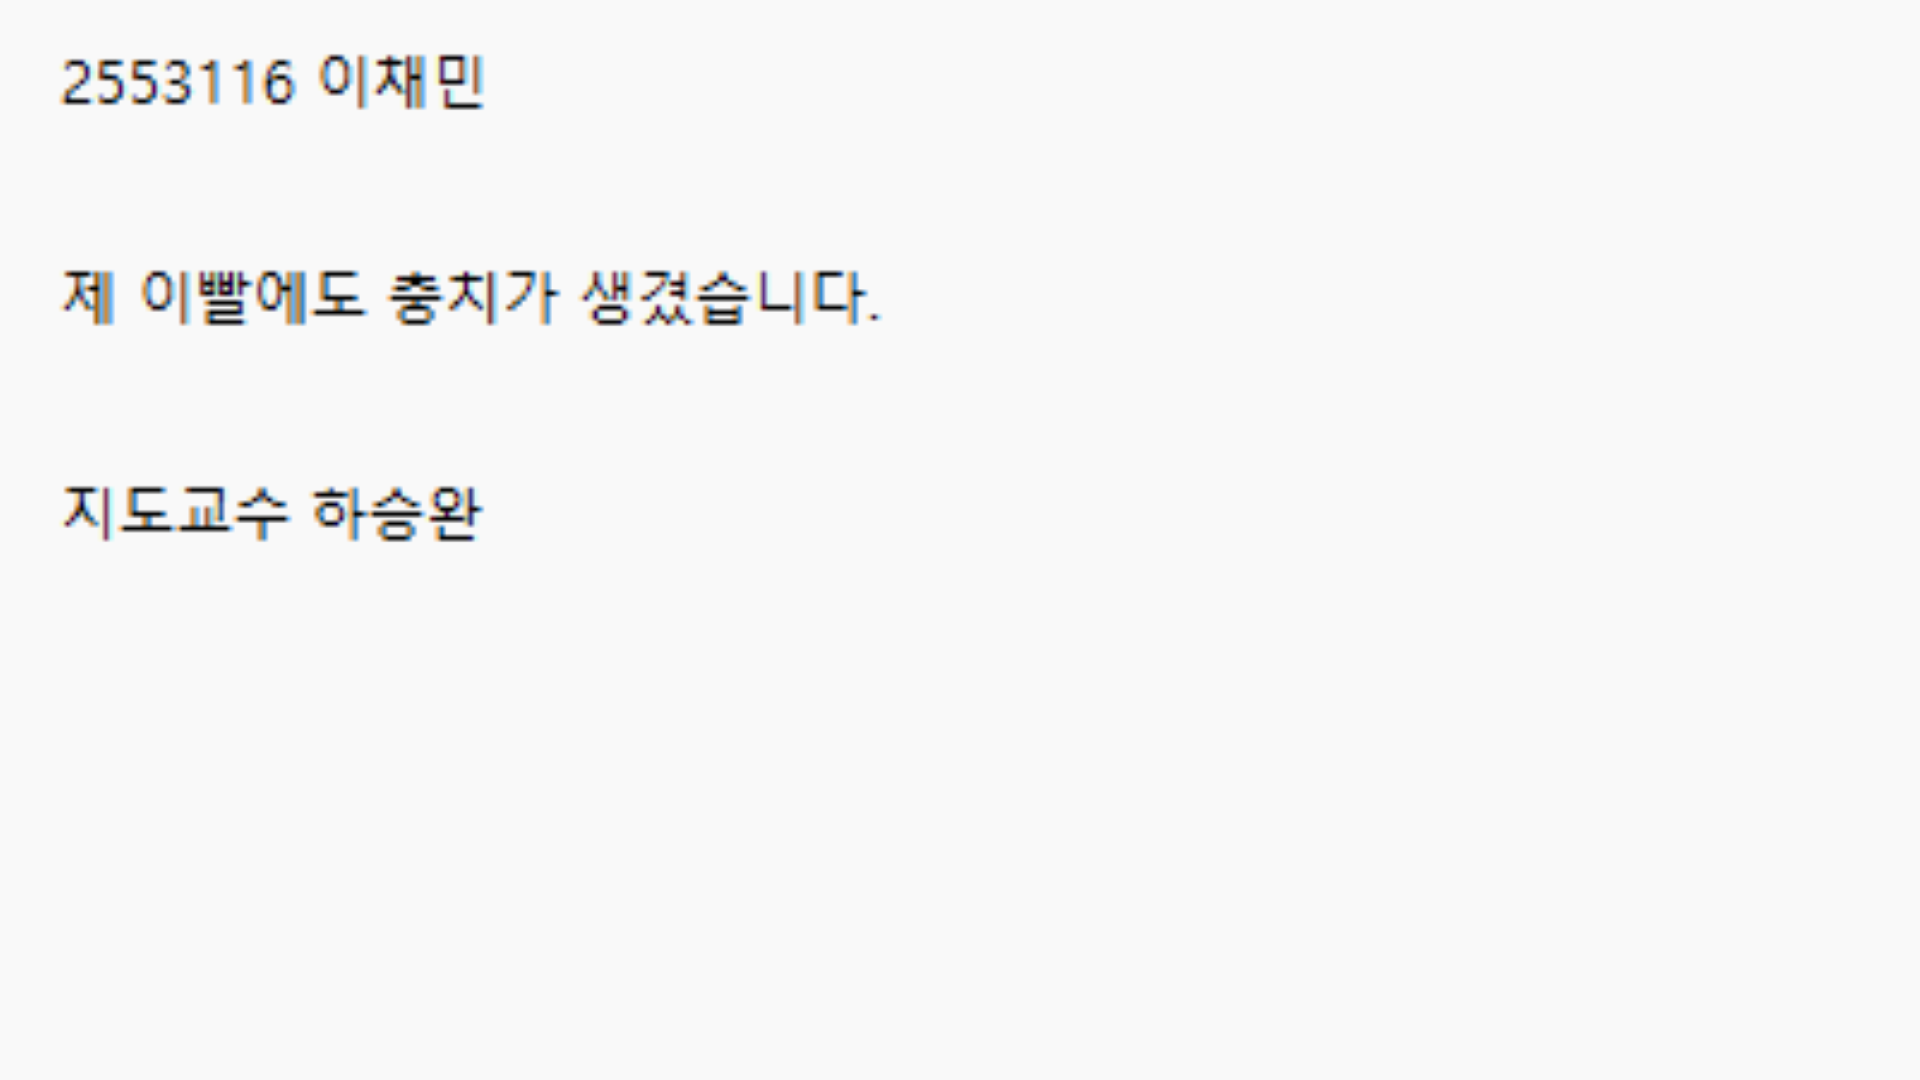
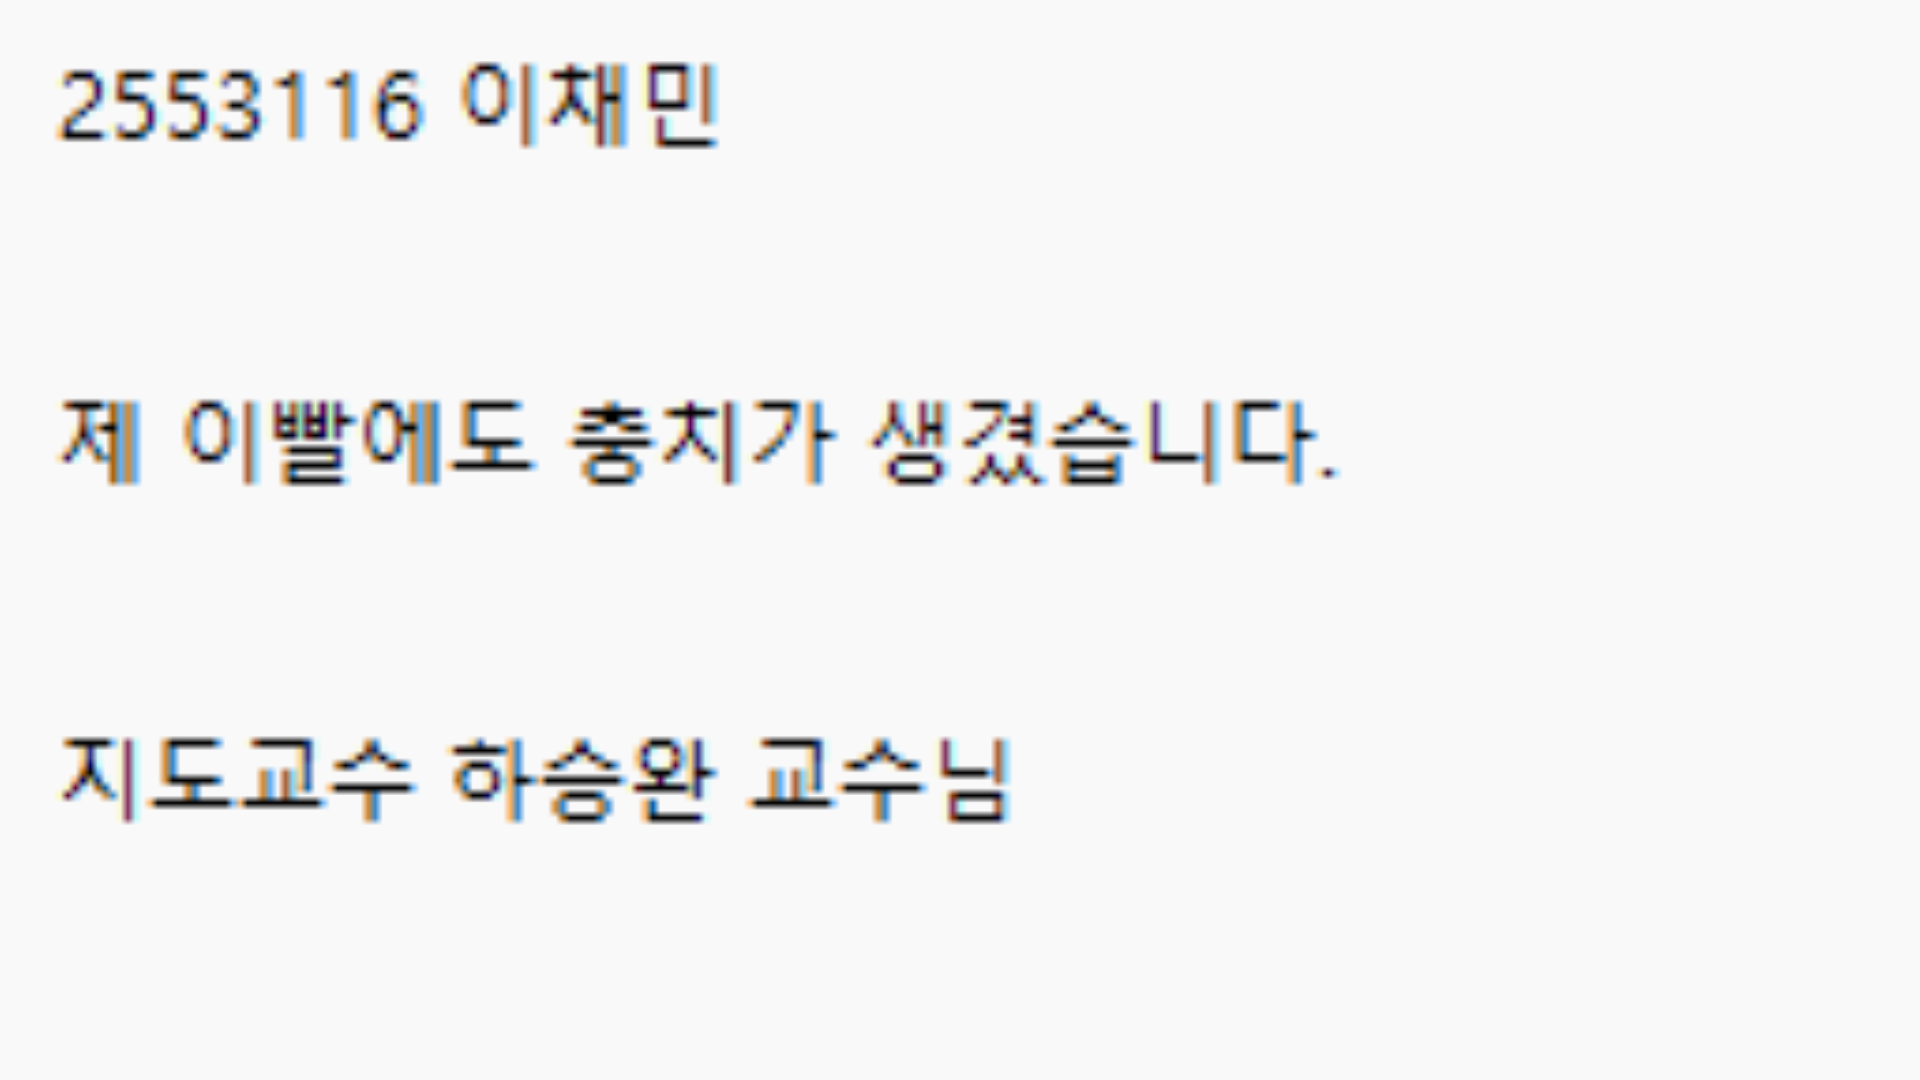
화면맞춤

diff --git a/Assets/_Project/01_Scripts/UI/UiAspectFrame.cs b/Assets/_Project/01_Scripts/UI/UiAspectFrame.cs
@@ -1,0 +1,195 @@
+using System.Collections.Generic;
+using GameProject.Mobile;
+using UnityEngine;
+using UnityEngine.SceneManagement;
+using UnityEngine.UI;
+
+namespace GameProject.UI
+{
+    /// <summary>
+    /// 화면 UI(HUD, 버튼, 팝업, 컷신 버튼 등)를 게임 화면과 같은 16:9(1920x1080) 틀 안에 넣는다.
+    ///
+    /// 배경: 카메라는 AspectRatioLetterbox 가 16:9 로 묶어서 폰(약 20:9)에서는 좌우가 검게 남는데,
+    /// UI 캔버스(Screen Space - Overlay)는 폰 화면 전체 기준이라 모서리에 붙은 버튼이 검은 여백
+    /// 쪽으로 밀려났다(2026-11-05 N반 1차 빌드 때 학생 폰에서 확인). PC(16:9)에서는 차이가 없다.
+    ///
+    /// 방식: 씬을 고치지 않고, 실행 중에 씬이 열릴 때마다 자동으로 처리한다.
+    ///  1) 화면용 루트 캔버스마다 그 바로 아래 UI 를 16:9 틀(UiAspectFrame) 안으로 옮긴다.
+    ///     모서리에 붙은 UI 는 틀의 모서리 = 게임 화면의 모서리에 붙게 된다.
+    ///  2) 화면 전체를 덮는 판(앵커가 0,0~1,1 로 꽉 찬 것 - 일시정지/사망 화면의 어두운 바탕,
+    ///     팝업 뒤 클릭 막이 등)은 그대로 화면 전체를 덮게 두고, 그 안의 내용만 틀에 넣는다.
+    ///  3) 그리는 순서(위/아래)는 그대로 유지한다 - 연속된 것끼리만 한 틀로 묶는다.
+    ///  4) 캔버스 맞춤값(Match)을 화면 비율에 따라 고른다(CanvasContainScaler 와 같은 규칙) -
+    ///     16:9 틀이 PC 와 똑같은 1920x1080 크기가 되어 UI 크기 비율도 PC 와 같아진다.
+    ///
+    /// 제외: 모바일 조작(MobileControlsCanvas - 조이스틱, 점프/공격/대시/특수공격 버튼)은 손가락이
+    /// 닿기 편하도록 지금처럼 폰 화면 전체 기준으로 둔다(화면 밖 여백으로 나가는 것 인정, 2026-11-05
+    /// 확정). 월드 공간 캔버스와 다른 캔버스 안에 들어 있는 캔버스도 건드리지 않는다.
+    /// </summary>
+    public sealed class UiAspectFrame : MonoBehaviour
+    {
+        private const float TargetAspect = 1920f / 1080f;
+        private const string FrameName = "UiAspectFrame";
+        private const int MaxDepth = 4;
+
+        private readonly List<RectTransform> frames = new List<RectTransform>();
+        private CanvasScaler scaler;
+        private int lastWidth;
+        private int lastHeight;
+
+        [RuntimeInitializeOnLoadMethod(RuntimeInitializeLoadType.BeforeSceneLoad)]
+        private static void Register()
+        {
+            SceneManager.sceneLoaded -= OnSceneLoaded;
+            SceneManager.sceneLoaded += OnSceneLoaded;
+        }
+
+        private static void OnSceneLoaded(Scene scene, LoadSceneMode mode)
+        {
+            foreach (var root in scene.GetRootGameObjects())
+            {
+                foreach (var canvas in root.GetComponentsInChildren<Canvas>(true))
+                {
+                    if (ShouldFrame(canvas))
+                    {
+                        canvas.gameObject.AddComponent<UiAspectFrame>().Build();
+                    }
+                }
+            }
+        }
+
+        private static bool ShouldFrame(Canvas canvas)
+        {
+            if (canvas.renderMode == RenderMode.WorldSpace)
+            {
+                return false;
+            }
+
+            // 다른 캔버스 안에 들어 있는 캔버스는 바깥 캔버스를 처리할 때 같이 옮겨진다.
+            var parent = canvas.transform.parent;
+            if (parent != null && parent.GetComponentInParent<Canvas>(true) != null)
+            {
+                return false;
+            }
+
+            return canvas.GetComponent<MobileControlsVisibility>() == null
+                && canvas.GetComponent<UiAspectFrame>() == null;
+        }
+
+        private void Build()
+        {
+            scaler = GetComponent<CanvasScaler>();
+            WrapChildren((RectTransform)transform, 0);
+            Apply();
+        }
+
+        /// <summary>parent 바로 아래 자식 중 화면 전체를 덮는 판은 그대로 두고(안쪽만 다시 처리),
+        /// 나머지는 연속된 것끼리 틀 하나로 묶는다.</summary>
+        private void WrapChildren(RectTransform parent, int depth)
+        {
+            var children = new List<RectTransform>();
+            foreach (Transform child in parent)
+            {
+                if (child is RectTransform rect)
+                {
+                    children.Add(rect);
+                }
+            }
+
+            RectTransform currentFrame = null;
+            foreach (var child in children)
+            {
+                if (IsFullScreen(child) && depth < MaxDepth)
+                {
+                    currentFrame = null;
+                    WrapChildren(child, depth + 1);
+                    continue;
+                }
+
+                if (currentFrame == null)
+                {
+                    currentFrame = CreateFrame(parent, child.GetSiblingIndex());
+                }
+
+                child.SetParent(currentFrame, false);
+            }
+        }
+
+        private static bool IsFullScreen(RectTransform rect)
+        {
+            return rect.anchorMin == Vector2.zero
+                && rect.anchorMax == Vector2.one
+                && rect.offsetMin.sqrMagnitude < 1f
+                && rect.offsetMax.sqrMagnitude < 1f
+                && rect.localScale == Vector3.one;
+        }
+
+        private RectTransform CreateFrame(RectTransform parent, int siblingIndex)
+        {
+            var frameObject = new GameObject(FrameName, typeof(RectTransform));
+            frameObject.layer = parent.gameObject.layer;
+            var frame = (RectTransform)frameObject.transform;
+            frame.SetParent(parent, false);
+            frame.SetSiblingIndex(siblingIndex);
+            frame.pivot = new Vector2(0.5f, 0.5f);
+            frames.Add(frame);
+            return frame;
+        }
+
+        private void Update()
+        {
+            // 폰 회전, PC 창 크기 조절에 대응 - 화면 크기가 바뀐 프레임에만 다시 계산.
+            if (Screen.width != lastWidth || Screen.height != lastHeight)
+            {
+                Apply();
+            }
+        }
+
+        private void Apply()
+        {
+            lastWidth = Screen.width;
+            lastHeight = Screen.height;
+            if (lastWidth <= 0 || lastHeight <= 0)
+            {
+                return;
+            }
+
+            var screenAspect = (float)lastWidth / lastHeight;
+            var min = Vector2.zero;
+            var max = Vector2.one;
+            if (screenAspect > TargetAspect)
+            {
+                // 화면이 16:9 보다 넓음(폰 가로) - 좌우를 비운다.
+                var width = TargetAspect / screenAspect;
+                min.x = (1f - width) / 2f;
+                max.x = 1f - min.x;
+            }
+            else
+            {
+                // 화면이 16:9 보다 좁음(태블릿 16:10 등) - 위아래를 비운다.
+                var height = screenAspect / TargetAspect;
+                min.y = (1f - height) / 2f;
+                max.y = 1f - min.y;
+            }
+
+            // 틀이 들어간 판들은 모두 화면 전체를 덮으므로 같은 앵커 값을 쓰면 된다.
+            foreach (var frame in frames)
+            {
+                if (frame == null)
+                {
+                    continue;
+                }
+
+                frame.anchorMin = min;
+                frame.anchorMax = max;
+                frame.offsetMin = Vector2.zero;
+                frame.offsetMax = Vector2.zero;
+            }
+
+            if (scaler != null && scaler.uiScaleMode == CanvasScaler.ScaleMode.ScaleWithScreenSize)
+            {
+                scaler.matchWidthOrHeight = screenAspect >= TargetAspect ? 1f : 0f;
+            }
+        }
+    }
+}
